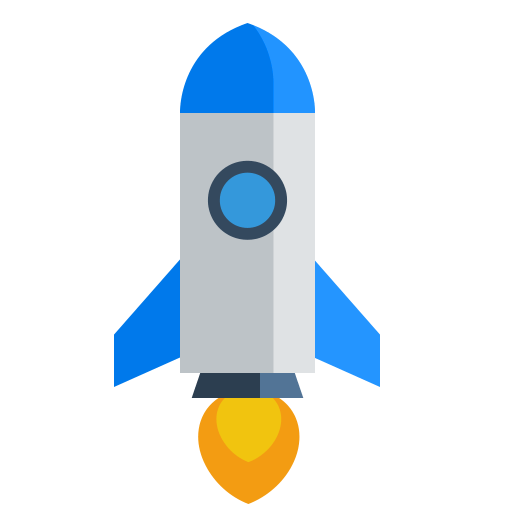
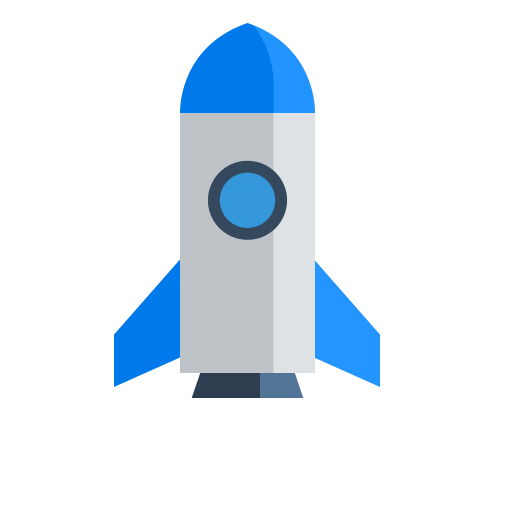
dynamic flames added

Changed region(s): [[0.375, 0.75, 0.5938, 1.0]]

diff --git a/main.css b/main.css
@@ -6,30 +6,38 @@ body {
  background-image: url(img/stars.jpg);
  background-size: cover;
 }
+
+/* PLANETS */
 #moon {
 	background-image: url('./img/moon.png');
 	-webkit-transform: rotate(180deg);
   	transform: rotate(180deg);
 }
+
 #sky {
 	position: relative;
 	height: 70%;
 	width: 100%;
 }
+
 #earth {
 	overflow: hidden;
 }
+
 #earthimg {
 	position: relative;
 	animation: rotation 800s infinite linear;
 	width: 100vw;
 }
 
-
-@keyframes rotation {
-    from {transform: rotate(0deg);}
-    to   {transform: rotate(359deg);}
+.planets {
+	height: 15%;
+	width: 100%;
+	background-size: 100%, auto;
 }
+
+/* ROCKETS */
+
 #rocket {
 	margin-left: 50%;
 	padding-right: 50px;
@@ -40,11 +48,8 @@ body {
     margin-right: auto;
 	height: 70px;
 	width: 70px;
-}
-.planets {
-	height: 15%;
-	width: 100%;
-	background-size: 100%, auto;
+	position: relative;
+	z-index: 20;
 }
 .rocket_col {
 	height: 100%;
@@ -61,12 +66,21 @@ body {
 	font-size: 1.5em;
 }
 
-.jono-shake {
+.rocket-shake {
 	position: relative;
 	animation-name: myshake;
 	animation-duration: 20s;
 	animation-iteration-count: infinite;
 }
+
+#j_shake, #j_flame {
+	animation-delay: 2s;
+}
+#m_shake, #m_flame {
+    animation-direction: reverse;
+}
+
+/* animations */
 
 @keyframes myshake {
 	0% {left: 0px;}
@@ -81,55 +95,12 @@ body {
 	90% {left: -1px; top:-1px; transform: rotate(1deg);}
 	100% {left: 2px; top: -2px; transform: rotate(0deg);}
 }
-.line-sec {
-	color: #FFF;
-	font-family: arial;
-}
-#line {
-	height: 1px;
-	width: 100%;
-}
-.line-pusher {
-	height: 1px;
-	border-bottom: 2px dashed;
-	border-color: #FFF;
+
+@keyframes rotation {
+    from {transform: rotate(0deg);}
+    to   {transform: rotate(359deg);}
 }
 
-#j_rocket {
-	animation-delay: 2s;
-}
-#m_rocket {
-    animation-direction: reverse;
-}
-
-#j_line-pusher {
-	position: relative;
-	padding-top: 425px;
-	width: 50%;
-	z-index: 11;
-	margin-left: 50%;
-}
-
-#min_line-pusher {
-	position: relative;
-	padding-top: 455px;
-	width: 50%;
-	margin-left: 50%;
-	z-index: 13;
-}
-
-#m_line-pusher {
-	position: relative;
-	padding-top: 495px;
-	width: 50%;
-	margin-left: 50%;
-	z-index: 12;
-}
-
-#line-buffer {
-	width: 100px;
-	height: 10px;
-	}
 
 @media only screen and (max-width: 691px) {
 	#moon {
@@ -143,6 +114,4 @@ body {
 	background-size: auto, 100px;
 	background-position: center top;
 	}
-
-
 }

diff --git a/index.html b/index.html
@@ -5,14 +5,45 @@
 </head>
 <body>
   	<link rel="stylesheet" type="text/css" href="main.css">
+  	<link rel="stylesheet" type="text/css" href="flame.css">
   	<link rel="stylesheet" type="text/css" href="https://cdnjs.cloudflare.com/ajax/libs/csshake/1.5.2/csshake.css">
 	<div id="moon" class="planets"></div>
 	<div id="sky">
 		<div id="display" class="side_padding"></div>
-		<div class="rocket_col"> <img class="rocket_img" id="m_rocket" src="img/m_rocket.png"> </div>
-		<div class="rocket_col"> <img class="rocket_img" id="j_rocket" src="img/rocket.png"> </div>
-		<div class="rocket_col"> <img class="rocket_img" id="min_rocket" src="img/min_rocket.png"> </div>
-				
+		<div class="rocket_col"> 
+			<div class="rocket-shake" id="m_shake">
+				<img class="rocket_img" id="m_rocket" src="img/m_rocket.png"> 
+				<div id="m_flame" class="rocket_flame">
+				  <div class="red flame"></div>
+				  <div class="orange flame"></div>
+				  <div class="yellow flame"></div>
+				  <div class="white flame"></div>
+				</div>
+			</div>
+		</div>
+
+		<div class="rocket_col">
+			<div class="rocket-shake" id="j_shake">
+				<img class="rocket_img" id="j_rocket" src="img/j_rocket.png"> 
+				<div id="j_flame" class="rocket_flame">
+					<div class="red flame"></div>
+					<div class="orange flame"></div>
+					<div class="yellow flame"></div>
+					<div class="white flame"></div>
+				</div>
+			</div>
+		</div>
+		<div class="rocket_col"> 
+			<div class="rocket-shake">
+				<img class="rocket_img" id="min_rocket" src="img/min_rocket.png">
+				<div class="rocket_flame">
+					<div class="red flame"></div>
+					<div class="orange flame"></div>
+					<div class="yellow flame"></div>
+					<div class="white flame"></div>
+				</div>
+			</div>	
+		</div>
 	</div>
 	<div id="earth" class="planets">
 		<img id="earthimg" src="img/earth2.png">
@@ -61,7 +92,7 @@
 			style.innerHTML = '.'+ uid +'_css { margin-top:' + padding + 'px ; }';
 
 			document.getElementsByTagName('head')[0].appendChild(style);
-			document.getElementById(rocket_id).className = uid +'_css rocket_img jono-shake';
+			document.getElementById(rocket_id).className = uid +'_css rocket_img ';
 		}
 
 		//creates the side bar coins

diff --git a/flame.css b/flame.css
@@ -1,0 +1,61 @@
+
+.rocket_flame{
+  margin: auto;
+  margin-left:48px;
+  margin-top: -5px;
+  width: 30px;
+  position:relative;
+  z-index: 19;
+  transform-origin:center bottom;
+  animation-name: flicker;
+  animation-duration:1s;
+  animation-delay:200ms;
+  animation-timing-function: ease-in;
+  animation-iteration-count: infinite;
+  animation-direction: alternate;
+}
+
+.flame{
+  bottom:0;
+  position:absolute;
+  border-bottom-right-radius: 50%;
+  border-bottom-left-radius: 50%;
+  border-top-left-radius: 50%;
+  transform:rotate(135deg) scale(1.5,1.5);
+}
+
+.red{
+  left:0px;
+  width: 6px;
+  height: 6px;
+  background:OrangeRed;
+  box-shadow: 0px 0px 0px 4px OrangeRed;
+}
+
+.orange{
+  left:1px; 
+  width: 4px;
+  height: 4px;
+  margin-bottom:4px;
+  background:orange;
+  box-shadow: 0px 0px 1px 4px orange;
+}
+
+.yellow{
+  left:2px; 
+  width: 2px;
+  height: 2px;
+  background:gold;
+  box-shadow: 0px 0px 0px 2px gold;
+  margin-bottom:7px;
+}
+
+
+@keyframes flicker{
+  0%   {transform: rotate(-3deg);}
+  20%  {transform: rotate(2deg);}
+  40%  {transform: rotate(-3deg);}
+  60%  {transform: rotate(2deg) scaleY(1.05); top: 1px;}
+  80%  {transform: rotate(-2deg) scaleY(0.92); top: -1px;}
+  100% {transform: rotate(2deg);}
+}
